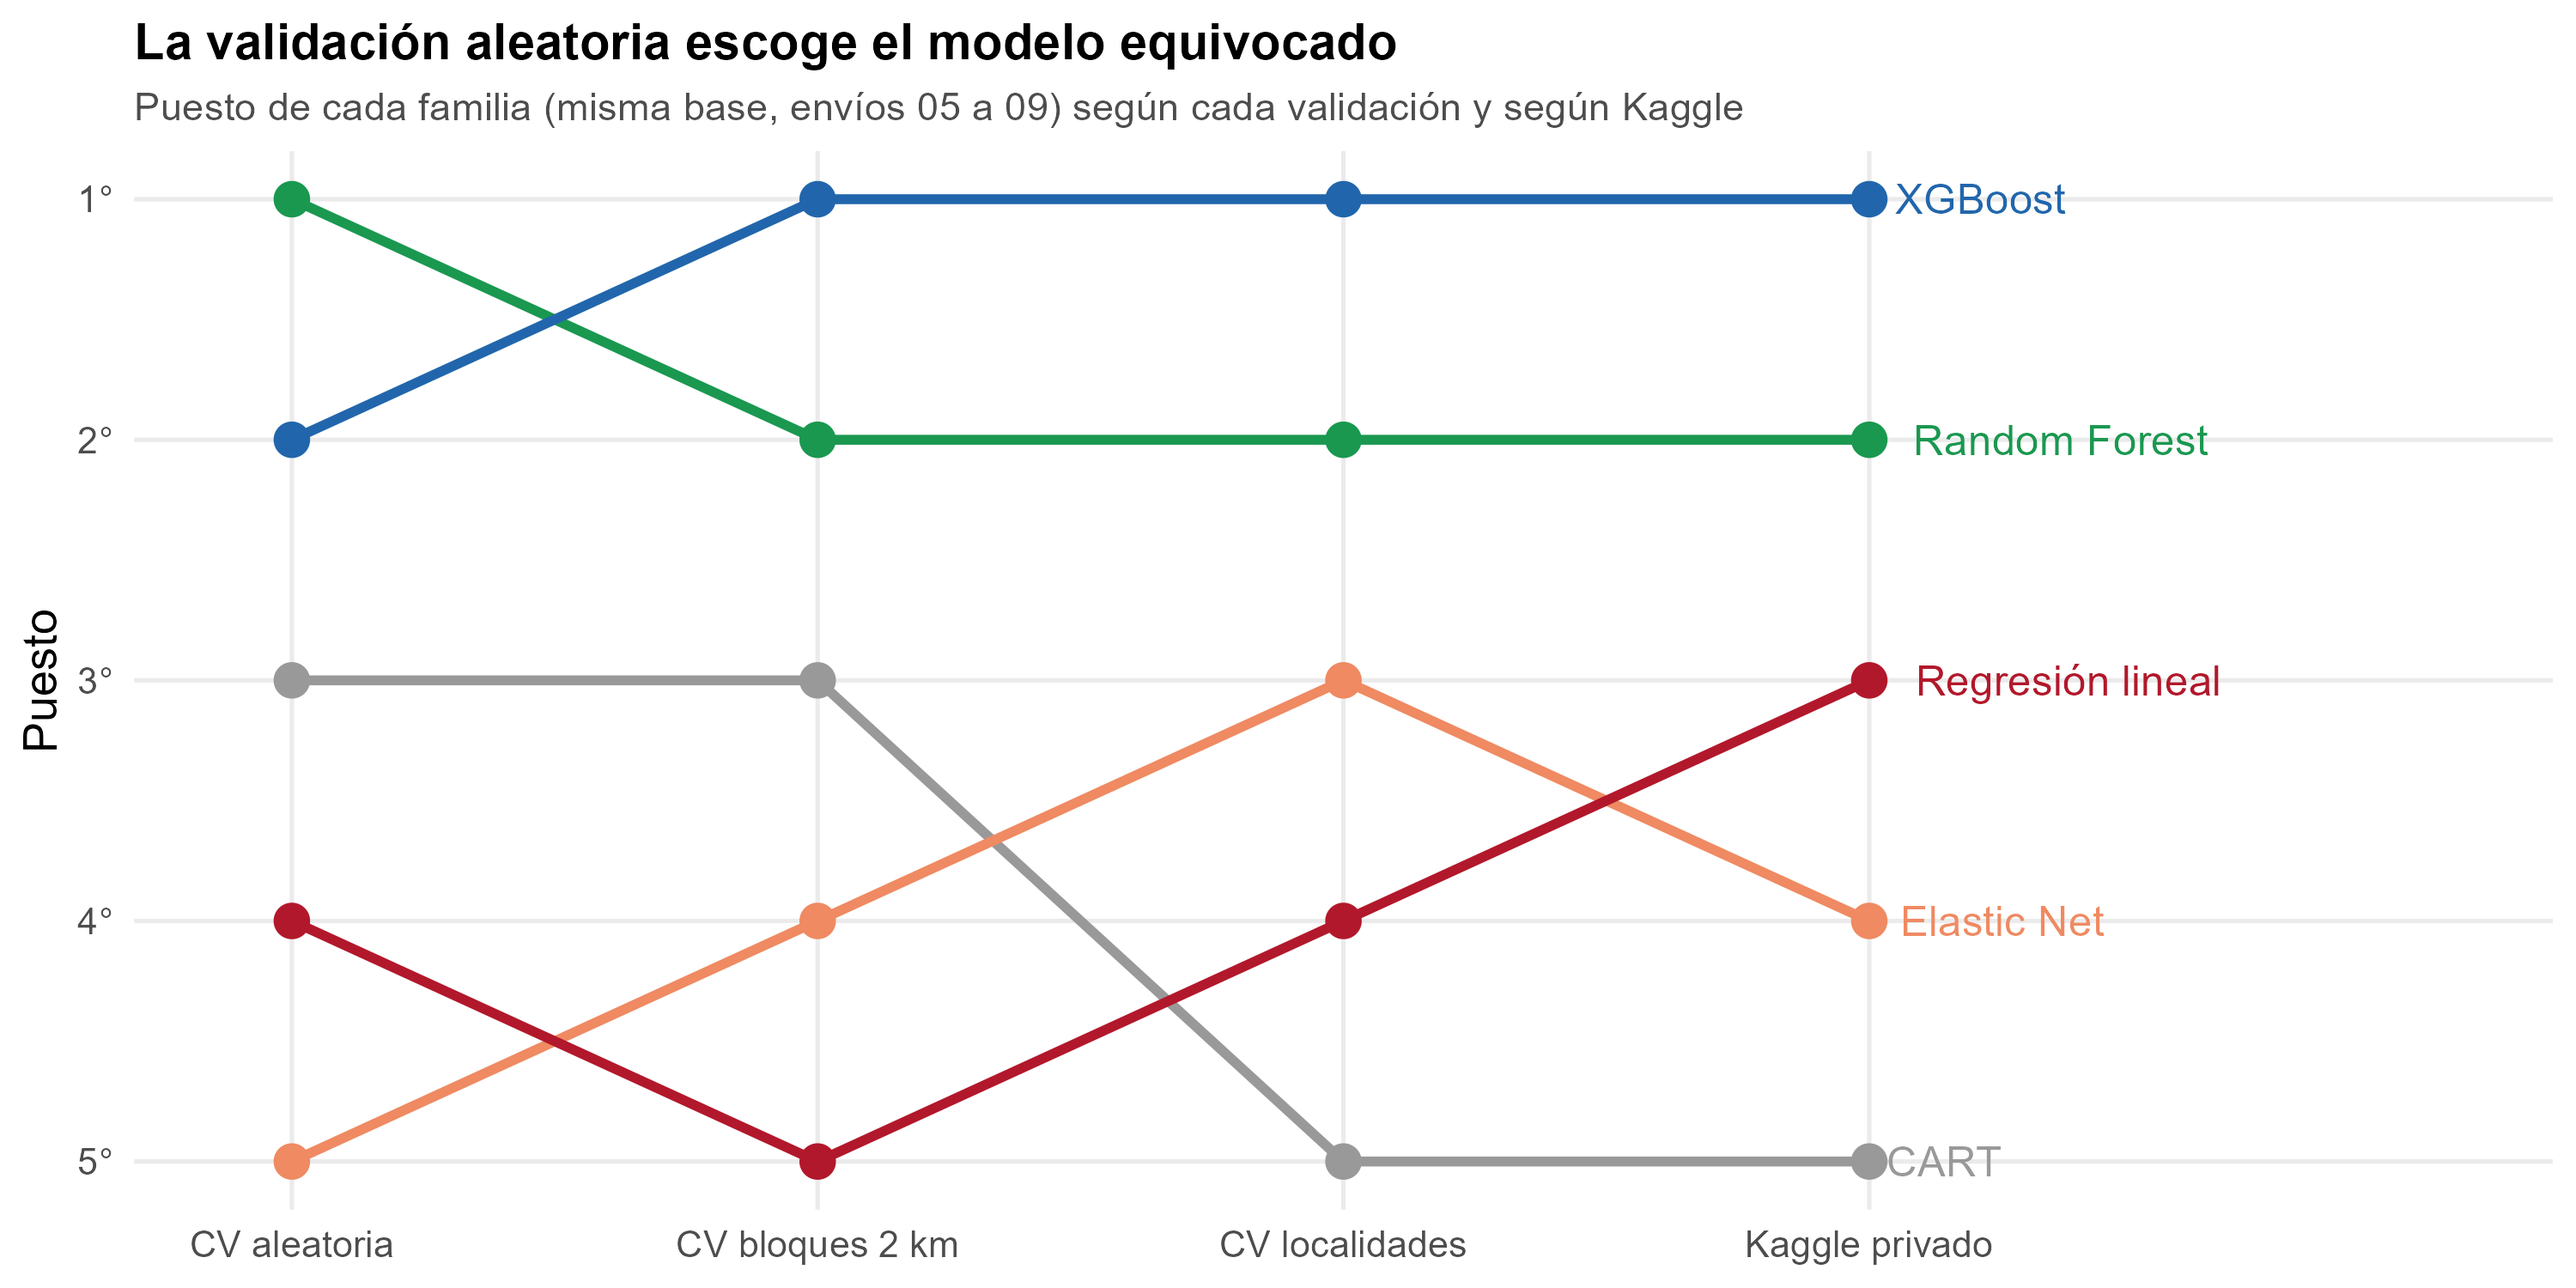
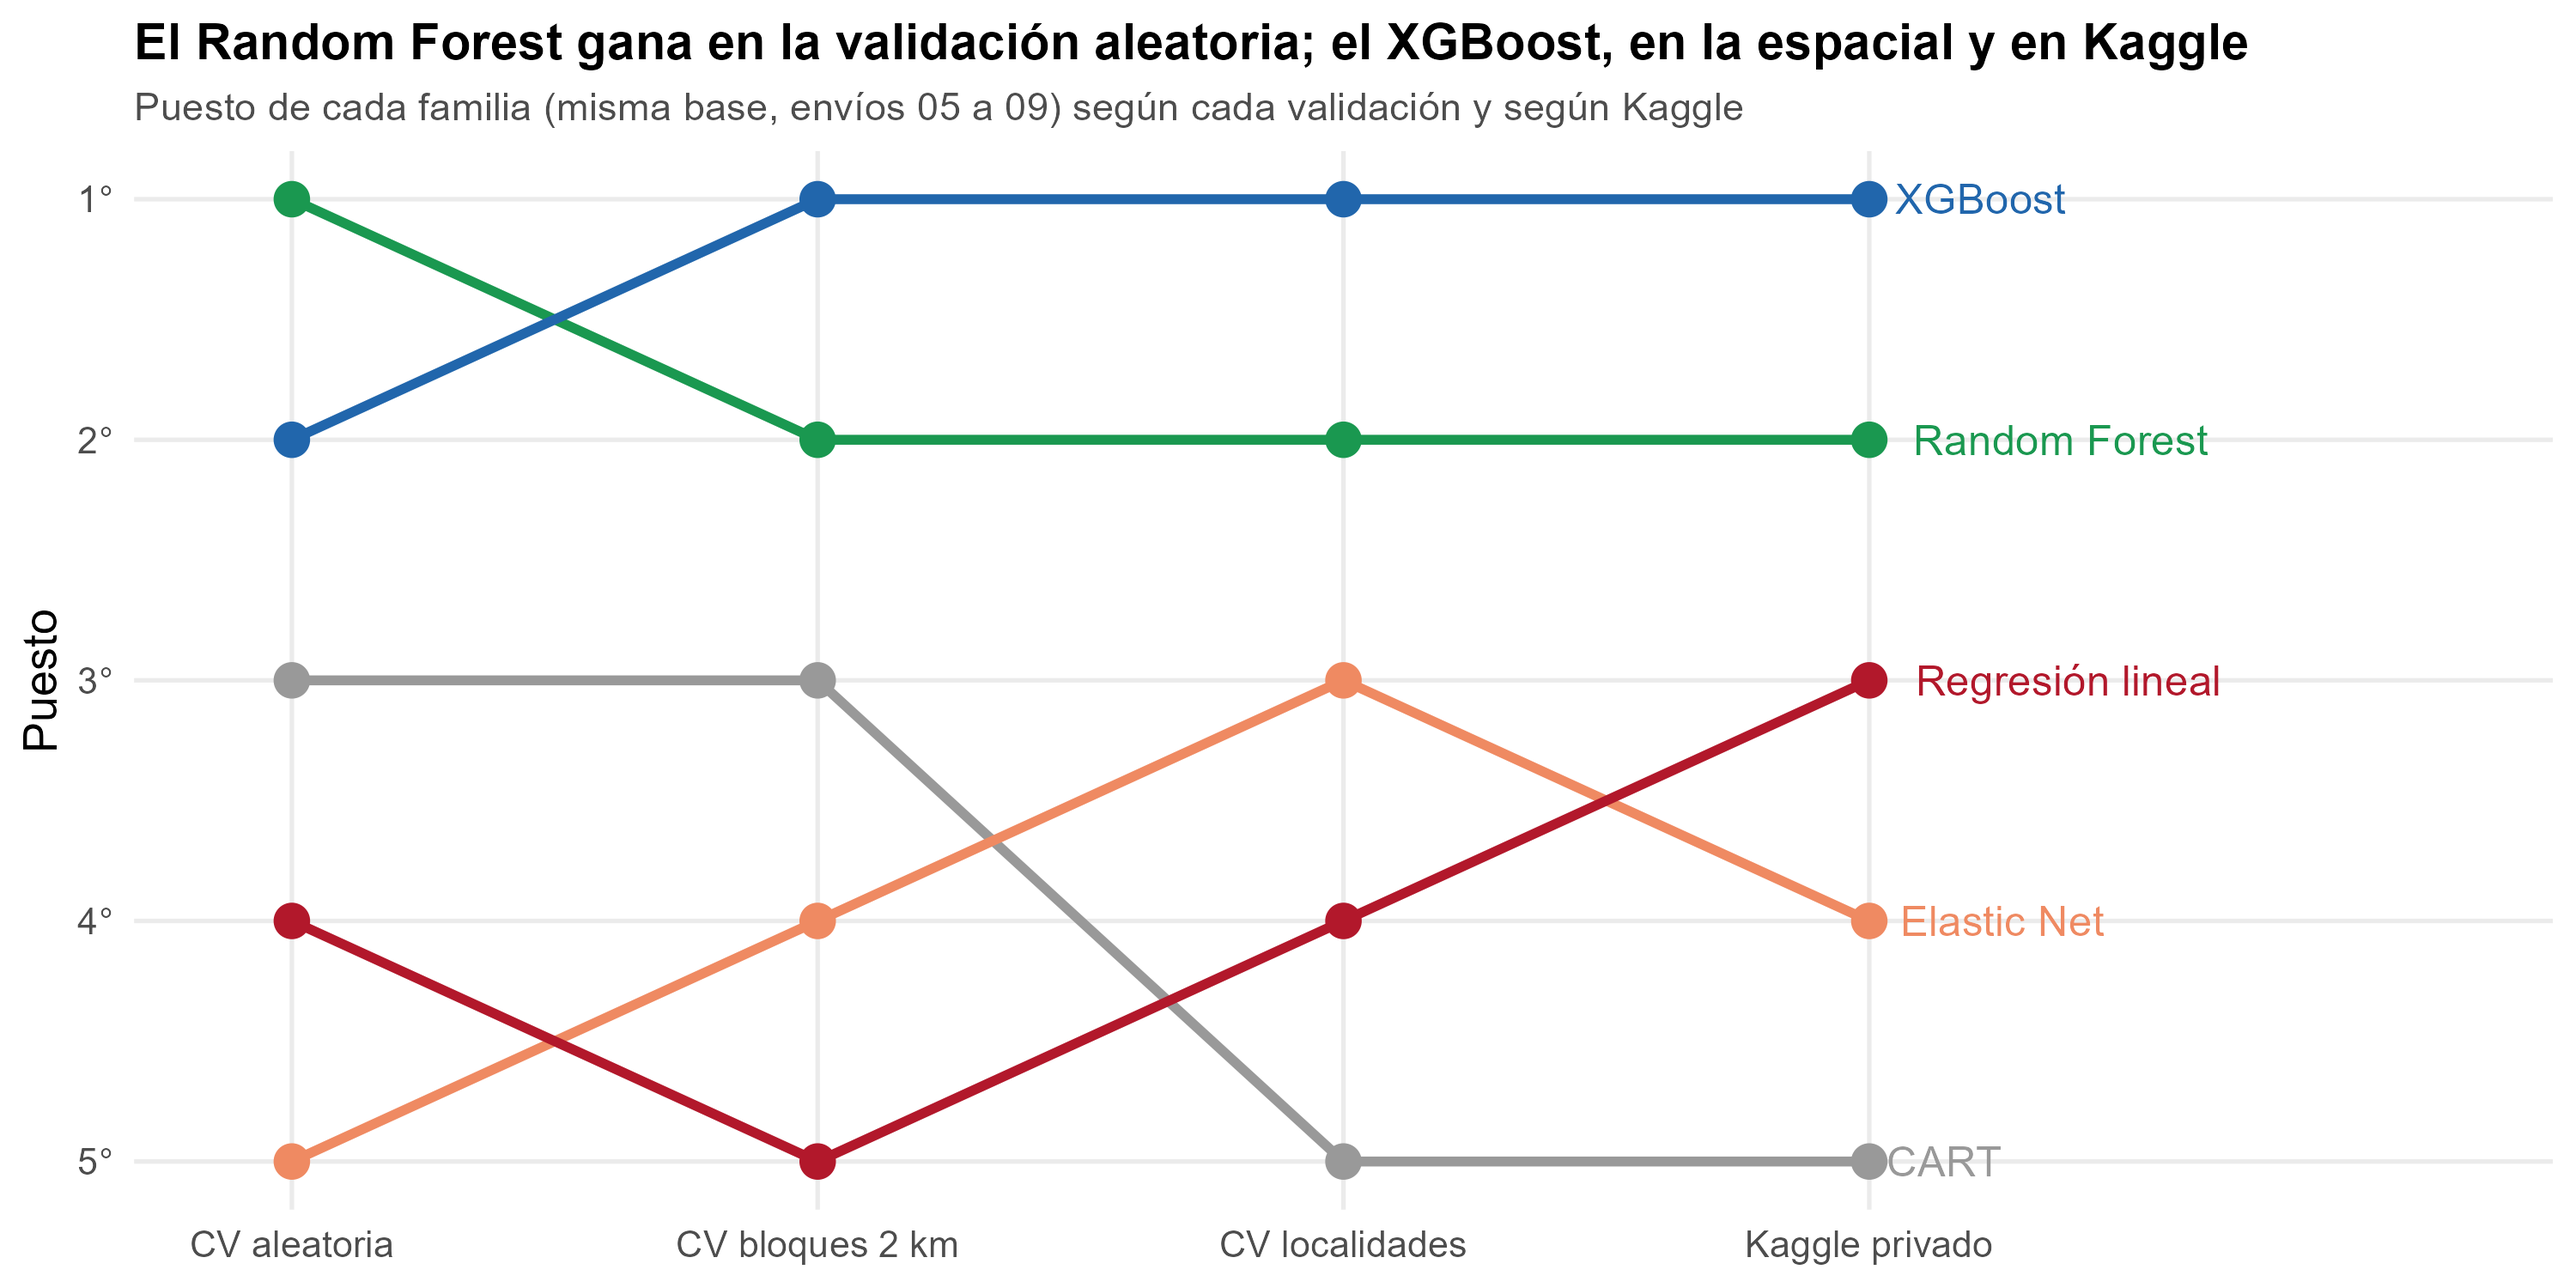
Restaura las diapositivas comunes y actualiza las cifras de las presentaciones
Se restauran el preámbulo y las diapositivas comunes de 04_Slides/comunes que se borraron por error en el commit anterior. Se vuelve a correr 03_figuras_presentaciones.R para que pres_cifras.tex incluya las cifras nuevas del sesgo según la predicción, la comparación entre validaciones y los escenarios de descuento, y para actualizar los títulos de las figuras de sesgo por decil y de puestos por validación.

Changed region(s): [[0.062, 0.0, 0.868, 0.0613]]

diff --git a/03_Output/Tables/pres_cifras.tex b/03_Output/Tables/pres_cifras.tex
@@ -29,6 +29,7 @@
 \newcommand{\gananciacien}{1.153}
 \newcommand{\negociosmargen}{42\%}
 \newcommand{\descuentomax}{15\%}
+\newcommand{\notadescuentos}{si cede 5\%, ningún margen hasta 30\% es rentable; si cede 10\%, el mejor margen es 28\%, pero solo gana 96 millones por cada 100 ofertas y cierra el 9\% de los negocios}
 \newcommand{\pasoentorno}{96}
 \newcommand{\pasoxgb}{37}
 \newcommand{\pasotexto}{13}
@@ -36,5 +37,11 @@
 \newcommand{\ventajaensamble}{3}
 \newcommand{\mismabasedif}{58}
 \newcommand{\cartdistintos}{59}
+\newcommand{\rhoaleatoria}{0,87}
+\newcommand{\rholocalidad}{0,90}
+\newcommand{\brechaaleatoria}{67}
+\newcommand{\brechalocalidad}{34}
 \newcommand{\sesgobarato}{17\%}
 \newcommand{\sesgocaro}{19\%}
+\newcommand{\sesgopredmin}{0\%}
+\newcommand{\sesgopredmax}{5\%}
